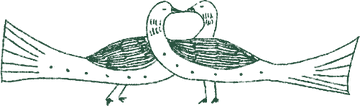
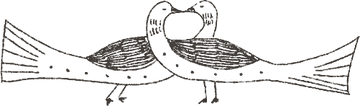
메인 사진 테두리를 비둘기·리본 액자로 교체, 아이보리 종이 질감 배경, 장식 색을 차콜로 변경
Claude-Session: https://claude.ai/code/session_01AJGgkVEWF9z2HW71jJqjcD

diff --git a/index.html b/index.html
@@ -11,27 +11,27 @@
 <meta property="og:description" content="2027년 4월 3일 토요일 오전 11시 · 문학의 집·서울">
 <meta property="og:image" content="https://i-said-yess-270403.github.io/images/og.jpg">
 <meta property="og:url" content="https://i-said-yess-270403.github.io/">
-<meta name="theme-color" content="#faf7f2">
+<meta name="theme-color" content="#ebe3d6">
 <link rel="preconnect" href="https://fonts.googleapis.com">
 <link rel="preconnect" href="https://fonts.gstatic.com" crossorigin>
 <link href="https://fonts.googleapis.com/css2?family=Noto+Serif+KR:wght@400;500;600&display=swap" rel="stylesheet">
 <link href="https://cdn.jsdelivr.net/gh/orioncactus/pretendard@v1.3.9/dist/web/static/pretendard.min.css" rel="stylesheet">
 <style>
   :root{
-    --bg:#fafaf8; --paper:#ffffff; --ink:#141414; --soft:#3f3f3f; --line:#d9dbd6;
-    --accent:#1f4a36; --accent-soft:#e8efea; --sun:#141414; --sat:#141414;
+    --bg:#ebe3d6; --paper:rgba(255,252,245,.45); --ink:#2a2622; --soft:#5b544c; --line:#d3c9b8;
+    --accent:#3e4a37; --accent-soft:#ddd3b8; --sun:#2a2622; --sat:#2a2622;
   }
   *{box-sizing:border-box;margin:0;padding:0}
-  html{background:#e6e8e4;-webkit-text-size-adjust:100%}
+  html{background:#ddd4c5 url(images/paper.jpg) center/1440px repeat;-webkit-text-size-adjust:100%}
   body{font-family:'Pretendard',-apple-system,BlinkMacSystemFont,'Apple SD Gothic Neo',sans-serif;color:var(--ink);line-height:1.85;letter-spacing:-.01em;font-weight:400;
-    max-width:440px;margin:0 auto;background:var(--bg);min-height:100vh;
+    max-width:440px;margin:0 auto;background:var(--bg) url(images/paper.jpg) center top/1440px repeat;min-height:100vh;box-shadow:0 0 30px rgba(80,60,30,.12);
     padding-bottom:env(safe-area-inset-bottom);word-break:keep-all}
   img{display:block;max-width:100%}
   a{color:inherit}
   .serif,h2,.cover .date-top b,.cover .names,.venue,.parents .who,.cal-head,.count b{font-family:'Noto Serif KR',serif;letter-spacing:0}
 
   /* placeholder for photos not yet uploaded */
-  .ph{background:linear-gradient(135deg,#eceeea,#dde1dc);display:flex;align-items:center;justify-content:center;color:#6b6f6a;font-size:12px;letter-spacing:.05em}
+  .ph{background:linear-gradient(135deg,#e6dece,#d9cfbd);display:flex;align-items:center;justify-content:center;color:#8a7f70;font-size:12px;letter-spacing:.05em}
   .ph svg{width:28px;height:28px;opacity:.6;margin-bottom:6px}
   .ph .phin{display:flex;flex-direction:column;align-items:center}
 
@@ -39,10 +39,15 @@
   .cover{position:relative;text-align:center;padding:calc(48px + env(safe-area-inset-top)) 28px 40px}
   .cover .date-top{font-size:15px;color:var(--soft)}
   .cover .date-top b{display:block;font-size:30px;font-weight:500;color:var(--ink);letter-spacing:.12em;margin-bottom:2px}
-  .cover .main{position:relative;margin:18px -18px 22px;aspect-ratio:725/1042}
-  .cover .photo-oval{position:absolute;left:21.4%;top:25.1%;width:58.2%;height:51.9%;border-radius:50%;overflow:hidden;background:#e6e8e4}
-  .cover .photo-oval img{width:100%;height:100%;object-fit:cover;object-position:50% 30%}
-  .cover .wreath{position:absolute;inset:0;width:100%;height:100%;pointer-events:none}
+  /* 메인 사진: 비둘기·리본 테두리 (위/아래 장식은 그대로, 옆 리본만 늘어남) */
+  .cover .main{--fw:min(calc(100vw - 36px),404px);width:var(--fw);margin:14px auto 6px;
+    border-style:solid;border-color:transparent;
+    border-width:calc(var(--fw)*420/1064) calc(var(--fw)*80/1064) calc(var(--fw)*140/1064);
+    border-image:url(images/deco/frame.png) 420 80 140 / calc(var(--fw)*420/1064) calc(var(--fw)*80/1064) calc(var(--fw)*140/1064) stretch;
+    padding:0 calc(var(--fw)*22/1064) calc(var(--fw)*6/1064)}
+  .cover .photo-oval{aspect-ratio:3/4;overflow:hidden;background:#ddd4c5}
+  .cover .photo-oval img{width:100%;height:100%;object-fit:cover;object-position:50% 35%}
+  .cover .swallows{display:block;width:120px;margin:26px auto 0;opacity:.9}
   .cover .names{font-size:24px;font-weight:500}
   .cover .names span{color:var(--accent);margin:0 12px;font-size:18px}
   .cover .meta{margin-top:12px;font-size:15px;color:var(--soft)}
@@ -53,7 +58,7 @@
   h2{display:flex;align-items:center;justify-content:center;gap:14px;flex-wrap:wrap}
   h2 .fl{height:26px;width:auto}
   h2 .fl.r{transform:scaleX(-1)}
-  h2::after{flex-basis:100%;width:auto!important;height:1px;margin:12px 0 0!important;background:linear-gradient(var(--accent),var(--accent)) center/24px 1px no-repeat!important}
+  h2::after{flex-basis:100%;width:auto!important;height:1px;margin:12px 0 0!important;background:linear-gradient(var(--soft),var(--soft)) center/24px 1px no-repeat!important}
   h2 .fl.solid{height:20px}
   .sub{font-size:16px;margin:-14px 0 24px;color:var(--ink)}
   /* 여기저기 흩어진 일러스트 */
@@ -73,7 +78,7 @@
   .sc.hand{width:84px;top:22px;right:6px;transform:rotate(8deg)}
   .sc.scroll{display:block;position:static;width:54px;margin:0 auto 18px;opacity:1}
   .sc.spiral{width:46px;top:8px;left:12px;transform:rotate(-12deg)}
-    h2{font-size:21px;font-weight:500;color:var(--accent);margin-bottom:32px;letter-spacing:.04em}
+    h2{font-size:21px;font-weight:500;color:var(--ink);margin-bottom:32px;letter-spacing:.04em}
   h2::after{content:'';display:block;width:24px;height:1px;background:var(--accent);margin:14px auto 0}
 
   /* greeting */
@@ -99,7 +104,7 @@
   .dday{margin-top:30px;font-size:15px}
   .count{display:flex;justify-content:center;gap:14px;margin-top:16px}
   .count div{min-width:56px}
-  .count b{display:block;font-size:26px;font-weight:500;color:var(--accent)}
+  .count b{display:block;font-size:26px;font-weight:500;color:var(--ink)}
   .count small{font-size:12px;color:var(--soft)}
   .dday em{font-style:normal;color:var(--accent)}
 
@@ -193,9 +198,10 @@
 <header class="cover">
   <img class="sc angel" src="images/deco/angel.png" alt="" aria-hidden="true"><img class="sc starA" src="images/deco/star_a.png" alt="" aria-hidden="true"><img class="sc starB" src="images/deco/star_b.png" alt="" aria-hidden="true">
   <p class="date-top"><b id="cv-date"></b><span id="cv-dow"></span></p>
-  <div class="main"><div class="photo-oval" id="cv-photo"></div><img class="wreath" src="images/deco/wreath.png" alt="" aria-hidden="true"></div>
+  <div class="main"><div class="photo-oval" id="cv-photo"></div></div>
   <p class="names" id="cv-names"></p>
   <p class="meta" id="cv-meta"></p>
+  <img class="swallows" src="images/deco/swallows.png" alt="" aria-hidden="true">
 </header>
 
 <!-- 인사말 -->
